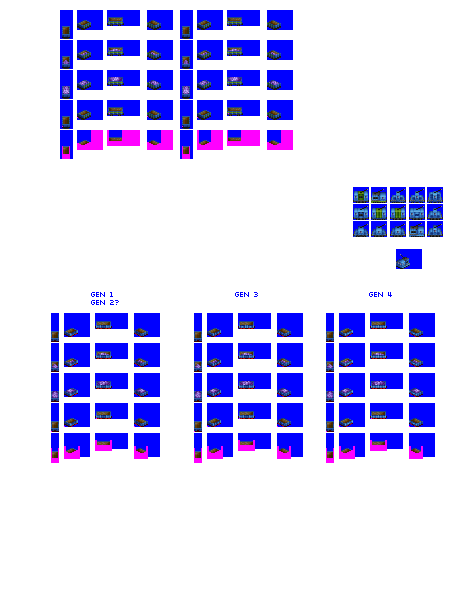
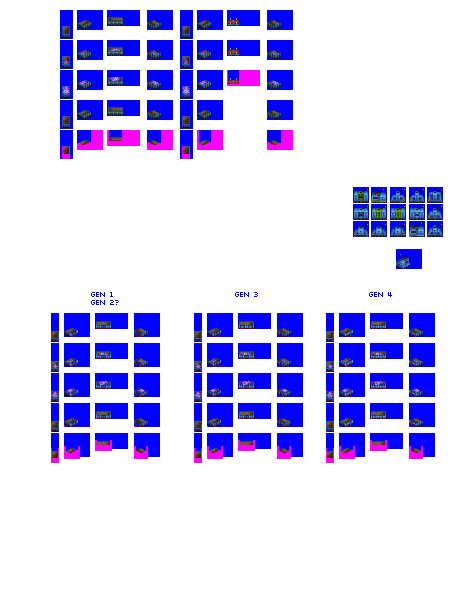
Codechange: more WIP on adapting graphics pipelines to optionally use base_platforms

Changed region(s): [[0.4923, 0.03, 0.5846, 0.27]]

diff --git a/src/gestalt_graphics/pipelines.py b/src/gestalt_graphics/pipelines.py
@@ -216,9 +216,9 @@ class ExtendSpriterowsForCompositedSpritesPipeline(Pipeline):
 
     def add_generic_spriterow(self):
         crop_box_source = (0,
-                           self.base_offset,
+                           self.base_cargo_input_row_yoffs,
                            self.sprites_max_x_extent,
-                           self.base_offset + graphics_constants.spriterow_height)
+                           self.base_cargo_input_row_yoffs + graphics_constants.spriterow_height)
         vehicle_generic_spriterow_input_image = self.comp_chassis_and_body(self.vehicle_source_image.copy().crop(crop_box_source))
         # vehicle_generic_spriterow_input_image.show() # comment in to see the image when debugging
         vehicle_generic_spriterow_input_as_spritesheet = self.make_spritesheet_from_image(vehicle_generic_spriterow_input_image)
@@ -236,9 +236,9 @@ class ExtendSpriterowsForCompositedSpritesPipeline(Pipeline):
         # or because containers include random options it might need reworking,
         # to be more similar to piece cargo handling, but using recolour not actual sprites
         crop_box_source = (0,
-                           self.base_offset,
+                           self.base_cargo_input_row_yoffs,
                            self.sprites_max_x_extent,
-                           self.base_offset + graphics_constants.spriterow_height)
+                           self.base_cargo_input_row_yoffs + graphics_constants.spriterow_height)
         vehicle_livery_only_spriterow_input_image = self.comp_chassis_and_body(self.vehicle_source_image.copy().crop(crop_box_source))
         # vehicle_generic_spriterow_input_image.show() # comment in to see the image when debugging
         vehicle_livery_only_spriterow_input_as_spritesheet = self.make_spritesheet_from_image(vehicle_livery_only_spriterow_input_image)
@@ -256,13 +256,13 @@ class ExtendSpriterowsForCompositedSpritesPipeline(Pipeline):
 
     def add_bulk_cargo_spriterows(self):
         crop_box_source_1 = (0,
-                             self.base_offset,
+                             self.base_cargo_input_row_yoffs,
                              self.sprites_max_x_extent,
-                             self.base_offset + graphics_constants.spriterow_height)
+                             self.base_cargo_input_row_yoffs + graphics_constants.spriterow_height)
         crop_box_source_2 = (0,
-                             self.base_offset + graphics_constants.spriterow_height,
+                             self.base_cargo_input_row_yoffs + graphics_constants.spriterow_height,
                              self.sprites_max_x_extent,
-                             self.base_offset + (2 * graphics_constants.spriterow_height))
+                             self.base_cargo_input_row_yoffs + (2 * graphics_constants.spriterow_height))
         vehicle_bulk_cargo_input_image_1 = self.comp_chassis_and_body(self.vehicle_source_image.copy().crop(crop_box_source_1))
         vehicle_bulk_cargo_input_image_2 = self.comp_chassis_and_body(self.vehicle_source_image.copy().crop(crop_box_source_2))
         #vehicle_bulk_cargo_input_image.show() # comment in to see the image when debugging
@@ -302,14 +302,15 @@ class ExtendSpriterowsForCompositedSpritesPipeline(Pipeline):
         if self.base_platform_input_path is not None:
             piece_cargo_vehicle_source_image = Image.open(self.base_platform_input_path)
             # !! hard-coded hax, this needs to be better to handle mixed bulk / piece input spritesheets correctly
-            input_rows_vertical_offset = 10 + (self.cabbage_offset * graphics_constants.spriterow_height)
+            cargo_input_rows_yoffs = 10 + (self.cabbage_offset * graphics_constants.spriterow_height)
+            empty_row_input_yoffs = 10
             if 'mullion' in self.consist.id:
                 #piece_cargo_vehicle_source_image.show()
                 print('self.cabbage_offset:', self.cabbage_offset)
-                print(self.consist.name_suffix_consist_type.lower())
         else:
             piece_cargo_vehicle_source_image = self.vehicle_source_image
-            input_rows_vertical_offset = self.base_offset
+            cargo_input_rows_yoffs = self.base_cargo_input_row_yoffs
+            empty_row_input_yoffs = self.base_empty_row_input_yoffs
 
         # !! this could possibly be optimised by slicing all the cargos once, globally, instead of per-unit
         cargo_group_output_row_height = 2 * graphics_constants.spriterow_height
@@ -330,9 +331,9 @@ class ExtendSpriterowsForCompositedSpritesPipeline(Pipeline):
         # an overlay for the vehicle, created from the vehicle empty state spriterow, and comped with the mask after each cargo has been placed
         # there is a case not handled, where long cargo sprites will cabbed vehicles in / direction with cab at N end, hard to solve
         crop_box_vehicle_cargo_loc_row = (0,
-                                          input_rows_vertical_offset,
+                                          cargo_input_rows_yoffs,
                                           graphics_constants.spritesheet_width,
-                                          input_rows_vertical_offset + graphics_constants.spriterow_height)
+                                          cargo_input_rows_yoffs + graphics_constants.spriterow_height)
 
         vehicle_cargo_loc_image = piece_cargo_vehicle_source_image.copy().crop(crop_box_vehicle_cargo_loc_row)
         # get the loc points
@@ -343,15 +344,17 @@ class ExtendSpriterowsForCompositedSpritesPipeline(Pipeline):
         loc_points = sorted(loc_points, key=lambda x: x[1])
 
         crop_box_vehicle_body = (0,
-                                 self.cur_vehicle_empty_row_offset,
+                                 empty_row_input_yoffs,
                                  self.sprites_max_x_extent,
-                                 self.cur_vehicle_empty_row_offset + graphics_constants.spriterow_height)
+                                 empty_row_input_yoffs + graphics_constants.spriterow_height)
         vehicle_base_image = self.comp_chassis_and_body(piece_cargo_vehicle_source_image.copy().crop(crop_box_vehicle_body))
+        if 'mullion' in self.consist.id:
+            vehicle_base_image.show()
 
         crop_box_mask_source = (0,
-                                input_rows_vertical_offset + graphics_constants.spriterow_height,
+                                cargo_input_rows_yoffs + graphics_constants.spriterow_height,
                                 self.sprites_max_x_extent,
-                                input_rows_vertical_offset + (2 * graphics_constants.spriterow_height))
+                                cargo_input_rows_yoffs + (2 * graphics_constants.spriterow_height))
         crop_box_mask_dest = (0,
                               0,
                               self.sprites_max_x_extent,
@@ -443,11 +446,11 @@ class ExtendSpriterowsForCompositedSpritesPipeline(Pipeline):
             self.vehicle_unit = self.consist.unique_units[vehicle_counter]
 
             self.cabbage_offset = 0
+            self.base_empty_row_input_yoffs = 10 + (graphics_constants.spriterow_height * cumulative_input_spriterow_count)
 
-            self.cur_vehicle_empty_row_offset = 10 + cumulative_input_spriterow_count * graphics_constants.spriterow_height
             for spriterow_data in vehicle_rows:
                 spriterow_type = spriterow_data[0]
-                self.base_offset = 10 + (graphics_constants.spriterow_height * cumulative_input_spriterow_count)
+                self.base_cargo_input_row_yoffs = 10 + (graphics_constants.spriterow_height * cumulative_input_spriterow_count)
                 if spriterow_type == 'always_use_same_spriterow' or spriterow_type == 'empty':
                     input_spriterow_count = 1
                     self.add_generic_spriterow()
